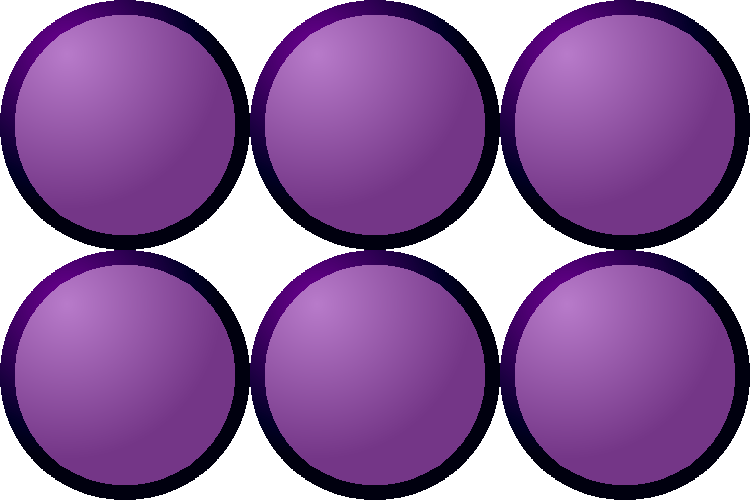
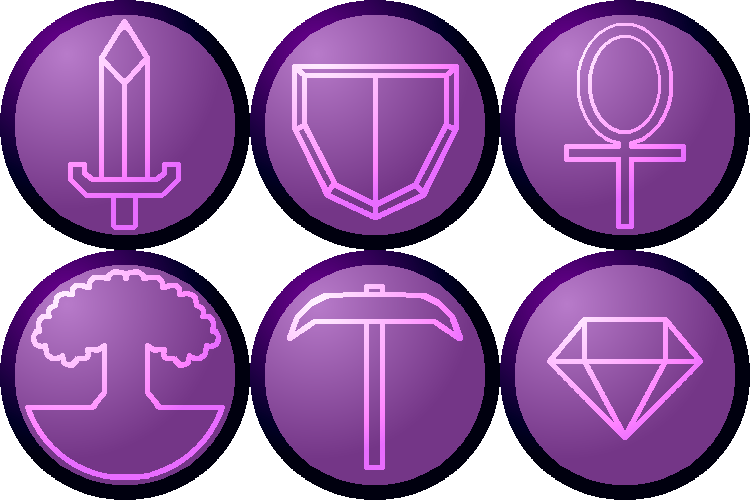
Glyph badges

diff --git a/core/src/main/java/net/lugocorp/kingdom/ui/views/LoadingGameView.java b/core/src/main/java/net/lugocorp/kingdom/ui/views/LoadingGameView.java
@@ -5,6 +5,7 @@ import net.lugocorp.kingdom.mods.GameMod;
 import net.lugocorp.kingdom.mods.ModLoader;
 import net.lugocorp.kingdom.ui.menu.ArtifactNode;
 import net.lugocorp.kingdom.ui.menu.FateNode;
+import net.lugocorp.kingdom.ui.menu.GlyphBadgeNode;
 import net.lugocorp.kingdom.ui.menu.GlyphIconNode;
 import net.lugocorp.kingdom.utils.serial.SaveLoad;
 import java.util.ArrayList;
@@ -34,6 +35,18 @@ public class LoadingGameView extends ThreadedTaskView {
         av.loaders.sprites.register("glyph-icon-mining", "ui/glyph-icons", GlyphIconNode.SIDE, GlyphIconNode.SIDE, 1,
                 1);
         av.loaders.sprites.register("glyph-icon-trade", "ui/glyph-icons", GlyphIconNode.SIDE, GlyphIconNode.SIDE, 2, 1);
+        av.loaders.sprites.register("glyph-badge-battle", "ui/glyph-badges", GlyphBadgeNode.SIDE, GlyphBadgeNode.SIDE,
+                0, 0);
+        av.loaders.sprites.register("glyph-badge-defense", "ui/glyph-badges", GlyphBadgeNode.SIDE, GlyphBadgeNode.SIDE,
+                1, 0);
+        av.loaders.sprites.register("glyph-badge-healing", "ui/glyph-badges", GlyphBadgeNode.SIDE, GlyphBadgeNode.SIDE,
+                2, 0);
+        av.loaders.sprites.register("glyph-badge-nature", "ui/glyph-badges", GlyphBadgeNode.SIDE, GlyphBadgeNode.SIDE,
+                0, 1);
+        av.loaders.sprites.register("glyph-badge-mining", "ui/glyph-badges", GlyphBadgeNode.SIDE, GlyphBadgeNode.SIDE,
+                1, 1);
+        av.loaders.sprites.register("glyph-badge-trade", "ui/glyph-badges", GlyphBadgeNode.SIDE, GlyphBadgeNode.SIDE, 2,
+                1);
     }
 
     /** {@inheritdoc} */

diff --git a/core/src/main/java/net/lugocorp/kingdom/game/mechanics/NewUnit.java b/core/src/main/java/net/lugocorp/kingdom/game/mechanics/NewUnit.java
@@ -5,6 +5,7 @@ import net.lugocorp.kingdom.game.model.Tile;
 import net.lugocorp.kingdom.game.model.Unit;
 import net.lugocorp.kingdom.game.player.Player;
 import net.lugocorp.kingdom.ui.menu.ButtonNode;
+import net.lugocorp.kingdom.ui.menu.GlyphBadgeNode;
 import net.lugocorp.kingdom.ui.menu.HeaderNode;
 import net.lugocorp.kingdom.ui.menu.ListNode;
 import net.lugocorp.kingdom.ui.menu.Menu;
@@ -76,16 +77,19 @@ public class NewUnit {
                 .add(new HeaderNode(view.av, "Recruit New Unit"))
                 .add(new ButtonNode(view.av, "Do not recruit any unit", () -> view.popups.complete()));
         RowNode glyphs = new RowNode().setColumns(category.get().glyphs.length);
+        RowNode badges = new RowNode().setColumns(category.get().glyphs.length);
         RowNode buttons = new RowNode().setColumns(category.get().glyphs.length);
         for (int a = 0; a < category.get().glyphs.length; a++) {
             final Glyph glyph = category.get().glyphs[a];
             glyphs.add(new HeaderNode(view.av, glyph.toString()));
+            badges.add(new GlyphBadgeNode(view.av, glyph));
             buttons.add(new ButtonNode(view.av, "Choose", () -> {
                 view.popups.complete();
                 view.popups.add(this.getGlyphUnitSelectionMenu(view, glyph, p));
             }).enable(view.game.mechanics.pools.remaining(glyph) > 0));
         }
         node.add(glyphs);
+        node.add(badges);
         node.add(buttons);
         return new Menu(Mechanics.MENU_MARGIN, view.hud.getHeight(), Coords.SIZE.x - (Mechanics.MENU_MARGIN * 2), false,
                 node);

diff --git a/core/src/main/java/net/lugocorp/kingdom/ui/menu/GlyphBadgeNode.java b/core/src/main/java/net/lugocorp/kingdom/ui/menu/GlyphBadgeNode.java
@@ -1,0 +1,33 @@
+package net.lugocorp.kingdom.ui.menu;
+import net.lugocorp.kingdom.engine.AudioVideo;
+import net.lugocorp.kingdom.engine.render.Drawable;
+import net.lugocorp.kingdom.game.glyph.Glyph;
+import net.lugocorp.kingdom.utils.math.Coords;
+import net.lugocorp.kingdom.utils.math.Rect;
+
+/**
+ * This MenuNode displays a large Glyph badge
+ */
+public class GlyphBadgeNode implements MenuNode {
+    public static final int SIDE = 250;
+    private final Drawable sprite;
+
+    public GlyphBadgeNode(AudioVideo av, Glyph glyph) {
+        this.sprite = new Drawable(av.loaders.sprites, String.format("glyph-badge-%s", glyph.key));
+    }
+
+    /** {@inheritdoc} */
+    @Override
+    public int getHeight() {
+        return GlyphBadgeNode.SIDE;
+    }
+
+    /** {@inheritdoc} */
+    @Override
+    public void draw(AudioVideo av, Rect bounds) {
+        Rect flip = Coords.screen.flip(bounds);
+        av.sprites.begin();
+        this.sprite.render(av.sprites, flip.x, flip.y);
+        av.sprites.end();
+    }
+}
